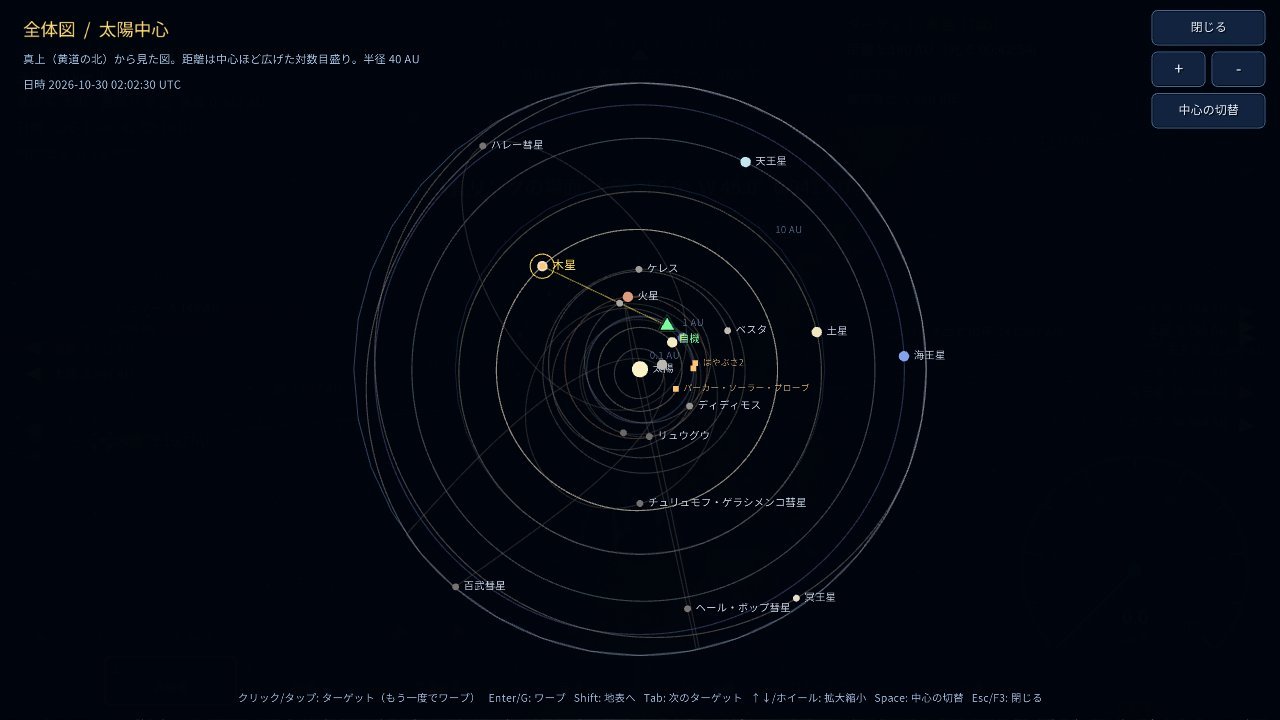
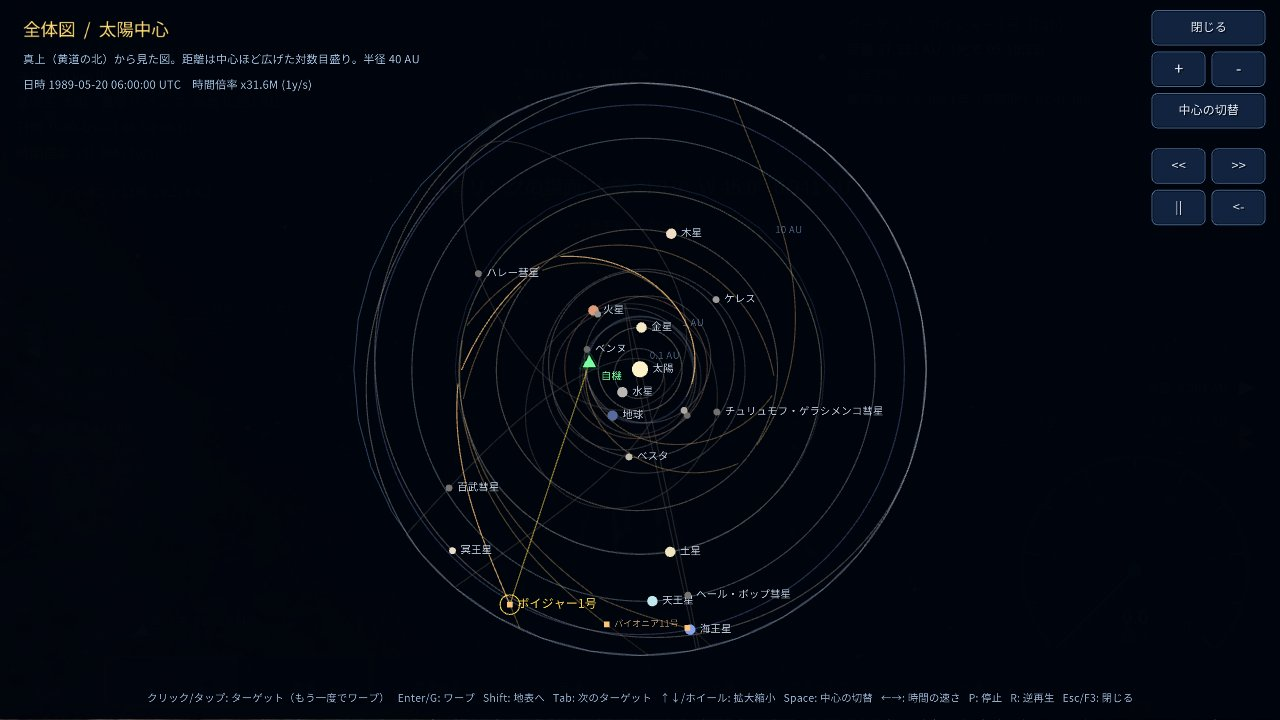
Bump version to 2.8.0, update screenshot

diff --git a/README.md b/README.md
@@ -32,7 +32,7 @@
 | ![国際宇宙ステーション](docs/screenshots/iss.jpg) 地球の上空を回る国際宇宙ステーション | ![重力モード](docs/screenshots/gravity_mode.jpg) 重力モード（R キー）: 地球を回る軌道の予測線 |
 | ![ブラウザ版](docs/screenshots/browser.jpg) ブラウザ版（WebGL2） | ![スマホでのタッチ操作](docs/screenshots/touch.jpg) スマホの横向きでのタッチ操作（ツアー中） |
 | ![初回の案内](docs/screenshots/first_run.jpg) 最初の起動時の案内 | ![共有リンク](docs/screenshots/share_link.jpg) 共有リンクで開いた場面（火星上空、F2 でコピー） |
-| ![文字の大きさ 特大](docs/screenshots/settings_large.jpg) 設定画面（文字の大きさ「特大」） | ![全体図](docs/screenshots/system_map.jpg) 全体図（F3。太陽中心、ターゲットは木星） |
+| ![文字の大きさ 特大](docs/screenshots/settings_large.jpg) 設定画面（文字の大きさ「特大」） | ![全体図](docs/screenshots/system_map.jpg) 全体図（F3。1989 年、ボイジャー 1 号の軌跡） |
 
 ## はじめての方へ
 
@@ -95,11 +95,11 @@ open build/SolarSystemVoyager.app
 
 ### 自動ビルドとリリース（GitHub Actions）
 
-`v2.7.1` のようなタグを push すると、`.github/workflows/release.yml` が Linux (.deb / .rpm)・Windows (.7z)・macOS (.zip)・ブラウザ版を作り、GitHub のリリースにパッケージを添付し、ブラウザ版を `gh-pages` ブランチへ置いて GitHub Pages で公開します。Linux 版と macOS 版は実際に起動してスクリーンショット（地球・火星・全体図・英語の設定画面）とログを撮り、実行結果の `screenshots-linux` / `screenshots-macos` に保存します（起動に失敗してもリリースは止めません）。
+`v2.8.0` のようなタグを push すると、`.github/workflows/release.yml` が Linux (.deb / .rpm)・Windows (.7z)・macOS (.zip)・ブラウザ版を作り、GitHub のリリースにパッケージを添付し、ブラウザ版を `gh-pages` ブランチへ置いて GitHub Pages で公開します。Linux 版と macOS 版は実際に起動してスクリーンショット（地球・火星・全体図・英語の設定画面）とログを撮り、実行結果の `screenshots-linux` / `screenshots-macos` に保存します（起動に失敗してもリリースは止めません）。
 
 ```sh
-git tag v2.7.1
-git push origin master v2.7.1
+git tag v2.8.0
+git push origin master v2.8.0
 ```
 
 ### ブラウザ版（Emscripten）

diff --git a/README.en.md b/README.en.md
@@ -32,7 +32,7 @@ Body positions are computed from the PC clock (UTC); at 1x time scale they orbit
 | ![International Space Station](docs/screenshots/iss.jpg) The International Space Station above Earth | ![Gravity mode](docs/screenshots/gravity_mode.jpg) Gravity mode (R key): the predicted orbit around Earth |
 | ![Browser version](docs/screenshots/browser.jpg) The browser version (WebGL2) | ![Touch controls on a phone](docs/screenshots/touch.jpg) Touch controls on a phone in landscape (during the tour) |
 | ![First-run guide](docs/screenshots/first_run.jpg) The guide shown on the first launch | ![Share link](docs/screenshots/share_link.jpg) A scene opened from a share link (above Mars; F2 copies one) |
-| ![Extra large text](docs/screenshots/settings_large.jpg) The settings with text size "Extra large" | ![System map](docs/screenshots/system_map.jpg) The system map (F3; centered on the Sun, Jupiter targeted) |
+| ![Extra large text](docs/screenshots/settings_large.jpg) The settings with text size "Extra large" | ![System map](docs/screenshots/system_map.jpg) The system map (F3; 1989 with the path of Voyager 1) |
 
 ## Getting started
 
@@ -95,11 +95,11 @@ open build/SolarSystemVoyager.app
 
 ### Automatic builds and releases (GitHub Actions)
 
-Pushing a tag such as `v2.7.1` runs `.github/workflows/release.yml`, which builds Linux (.deb / .rpm), Windows (.7z), macOS (.zip) and the browser version, creates the GitHub release with the packages, and publishes the browser version to the `gh-pages` branch for GitHub Pages. The Linux and macOS builds are also launched to take screenshots (Earth, Mars, the map and the English settings) and logs, saved as `screenshots-linux` / `screenshots-macos` in the run (a failed launch does not stop the release).
+Pushing a tag such as `v2.8.0` runs `.github/workflows/release.yml`, which builds Linux (.deb / .rpm), Windows (.7z), macOS (.zip) and the browser version, creates the GitHub release with the packages, and publishes the browser version to the `gh-pages` branch for GitHub Pages. The Linux and macOS builds are also launched to take screenshots (Earth, Mars, the map and the English settings) and logs, saved as `screenshots-linux` / `screenshots-macos` in the run (a failed launch does not stop the release).
 
 ```sh
-git tag v2.7.1
-git push origin master v2.7.1
+git tag v2.8.0
+git push origin master v2.8.0
 ```
 
 ### Browser version (Emscripten)
